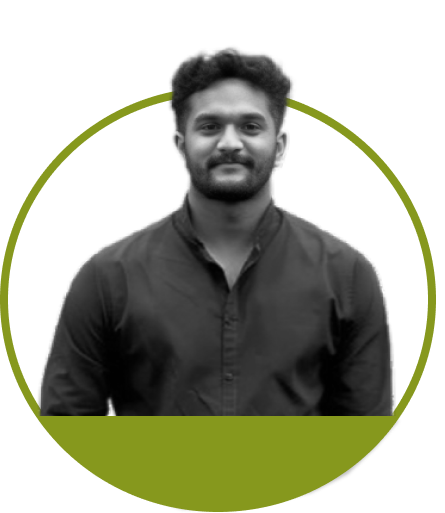
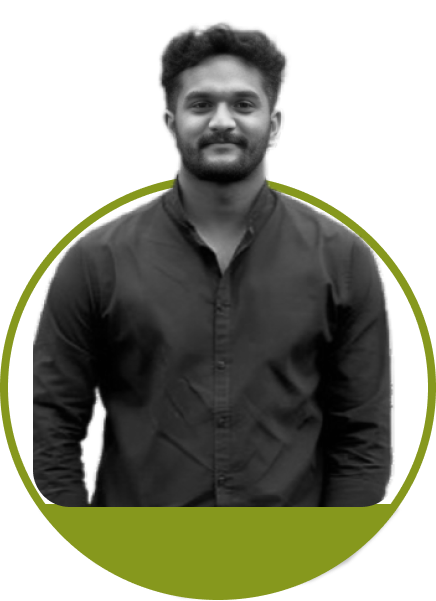
EDIT#

diff --git a/src/app/components/Hero.tsx b/src/app/components/Hero.tsx
@@ -1,6 +1,6 @@
 import React from "react";
 import { ImageWithFallback } from "./figma/ImageWithFallback";
-import imgPortrait from "../../assets/portra.png";
+import imgPortrait from "../../assets/pic.png";
 import svgPaths from "../../imports/Desktop1/svg-g8eqll0k0q";
 import resume from "../../assets/resum.pdf";
 
@@ -129,7 +129,7 @@ export function Hero() {
                 -translate-x-1/2
                 top-[-0px]
                 w-[350px]
-                h-[500px]
+                h-[600px]
                 scale-x-125
               "
             />

diff --git a/index.html b/index.html
@@ -5,7 +5,7 @@
       
       <meta charset="UTF-8" />
       <meta name="viewport" content="width=device-width, initial-scale=1.0" />
-      <title>Responsive Portfolio Webpage</title>
+      <title>Abin Jacob</title>
       <meta name="description" content="Showcase your professional portfolio with a responsive, user-friendly webpage designed to highlight your skills and projects across all devices." />
       <meta name="robots" content="noindex, nofollow" />
       <style>html, body { height: 100%; margin: 0; } #root { height: 100%; }</style>

diff --git a/src/app/components/Footer.tsx b/src/app/components/Footer.tsx
@@ -6,7 +6,7 @@ export function Footer() {
   };
 
   return (
-    <footer id="contact" className="relative w-full mt-40 border-t border-[#86981D]/20 overflow-hidden bg-transparent">
+    <footer id="contact"className="relative w-full mt-40 border-t border-[#86981D]/20 overflow-hidden bg-transparent">
 
       {/* Background Glow */}
       <div className="absolute left-1/2 top-20 -translate-x-1/2 w-[500px] h-[500px] bg-[#86981D]/10 blur-[140px] rounded-full pointer-events-none"></div>